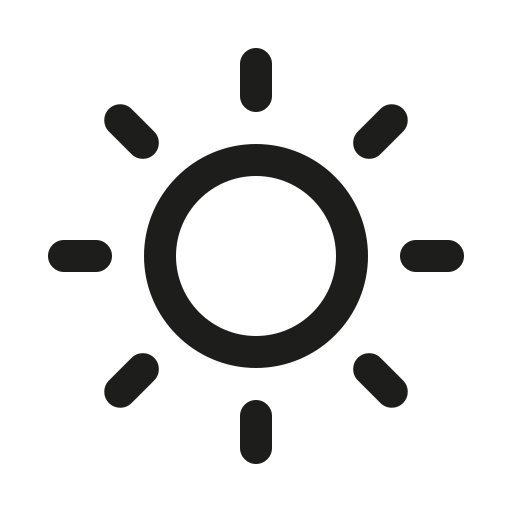
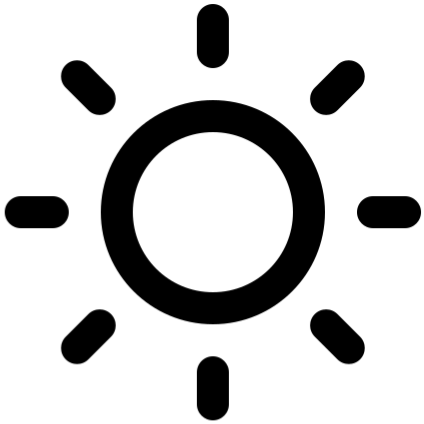
day night mode
added a dark mode that is toggled by a sun/moon icon

Changed region(s): [[0.0, 0.0, 1.0, 1.0]]

diff --git a/WebPortfolio/styles/style.css b/WebPortfolio/styles/style.css
@@ -1,8 +1,31 @@
-body, html{
+:root {
+    /* Default (Day) Mode */
+    --background-color: #fff;
+    --text-color: #000;
+    --grayscale: 100%;
+    --brightness: 0;
+    --link-color: #000;
+    --invert: 0;
+}
+  
+/* Night Mode */
+body.night-mode {
+    --background-color: #000;
+    --text-color: #fff;
+    --grayscale: 0%;
+    --brightness: 1;
+    --link-color: #fff;
+    --invert: 1;
+}
+
+body, html {
     height: 100%;
     width: 100%;
+    margin: 0;
     overflow: hidden;
     font-family: "Geist Mono", sans-serif;
+    background-color: var(--background-color);
+    color: var(--text-color);
 }
 
 .page-header {
@@ -13,17 +36,36 @@ body, html{
     font-size: 4em;
 }
 
+.top-buttons {
+    box-sizing: border-box;
+    position: fixed;
+    top: 0;
+    left: 0;
+    cursor: pointer;
+    padding: 20px;
+}
+
+.day-night-toggle {
+    box-sizing: border-box;
+    width: 3em;
+    padding-left: 10px;
+}
+
+.day-night-toggle:hover {
+    cursor: pointer;
+}
+
 .back {
+    box-sizing: border-box;
     float: left;
-    width: 50px;
-    filter: grayscale(100%);
-    filter: brightness(0.25);
-    padding-left: 20px;
-    padding-top: 20px;
+    width: 1.5em;
+    filter: grayscale(var(--grayscale));
+    filter: brightness(var(--brightness));
 }
 
 .back:hover {
     cursor: pointer;
+    background-color: var(--link-color);
 }
 
 .paragraph-section {
@@ -34,11 +76,10 @@ body, html{
 
 .contact-logo {
     height: 1.2em;
-    filter: grayscale(100%);
-    filter: brightness(0.25)
+    filter: brightness(var(--brightness)) invert(var(--invert));
 }
 
-.contact-link{
+.contact-link {
     font-size: 1.5em;
     text-align: center;
 }
@@ -49,11 +90,11 @@ body, html{
 
 a:link, a:visited, a:active{
     text-decoration: none;
-    color: black;
+    color: var(--link-color);
 }
   
 a:hover {
-    color: black;
+    color: var(--link-color);
     font-weight: bold;
 }
 

diff --git a/WebPortfolio/JS/app.js b/WebPortfolio/JS/app.js
@@ -1,14 +1,25 @@
-/*store menu open state for session*/
-let menuCenter = document.querySelector('#menu-center')
-menuCenter.addEventListener('click', () => {
-  menu.classList.toggle('open');
-  const isOpen = menu.classList.contains('open');
-  sessionStorage.setItem('menuState', isOpen ? 'open' : 'closed');
-});
+/*day night toggle*/
+const dayNightImage = document.querySelector('.day-night-toggle');
+dayNightImage.onclick = function(){
+  let isDay = true;
+  if (dayNightImage.src.endsWith('sun.png')) {
+    isDay = false;
+    dayNightImage.src = '../images/moon.png';
+    document.body.classList.add('night-mode');
+  } else {
+    isDay = true;
+    dayNightImage.src = '../images/sun.png';
+    document.body.classList.remove('night-mode');
+  }
 
-if (sessionStorage.getItem('menuState') === 'open') {
-  menu.classList.add('open');
-  setTimeout(function() {
-    menu.classList.toggle('active')
-  }, 100);
+  localStorage .setItem('nightMode', isDay ? 'day' : 'night');
+};
+
+if (localStorage.getItem('nightMode') === 'night') {
+  document.body.classList.add('night-mode');
+  dayNightImage.src = '../images/moon.png'; 
+}
+else {
+  document.body.classList.remove('night-mode'); 
+  dayNightImage.src = '../images/sun.png';
 }

diff --git a/WebPortfolio/pages/about.html b/WebPortfolio/pages/about.html
@@ -5,13 +5,18 @@
         <link href="../styles/style.css" rel="stylesheet" />
         <link href="../styles/scrollStyles.css" rel="stylesheet" />
         <script defer src="../JS/fades.js"></script>
+        <script defer src="../JS/app.js"></script>
     </head>
     <body>
-        <a href="main.html"> <img class="back" src="../images/back.png" alt="back-button"> </a>
-        <div>
-            
-            <h1 class="page-header">ABOUT</h1>
+        <div class="top-buttons">
+            <a href="main.html">
+                <img class="back" src="../images/back.png" alt="back-button">
+            </a>
+            <img class="day-night-toggle" src="../images/sun.png" alt="sun">
+        </div>
+        <h1 class="page-header">ABOUT</h1>
 
+        <div>
             <section class="about-section">
                 <h2>another header</h2>
                 <p class="paragraph-section"> Experienced Software Developer with a passion for expanding my technical knowledge and making a

diff --git a/WebPortfolio/pages/contact.html b/WebPortfolio/pages/contact.html
@@ -3,14 +3,18 @@
     <head>
         <title>Daisy's Portfolio</title>
         <link href="../styles/style.css" rel="stylesheet" />
+        <script defer src="../JS/app.js"></script>
     </head>
     <body>
-        <a href="main.html">
-            <img class="back" src="../images/back.png" alt="back-button">
-        </a>
-        
+        <div class="top-buttons">
+            <a href="main.html">
+                <img class="back" src="../images/back.png" alt="back-button">
+            </a>
+            <img class="day-night-toggle" src="../images/sun.png" alt="sun">
+        </div>
+        <h1 class="page-header">CONTACT</h1>
+       
         <div>
-            <h1 class="page-header">CONTACT</h1>
             <div class="paragraph-section">
                 <div class="contact-info">
                     <a class="contact-link" href="mailto:daisy.rendell.prvt@gmail.com" target="_blank">

diff --git a/WebPortfolio/pages/work.html b/WebPortfolio/pages/work.html
@@ -3,12 +3,17 @@
     <head>
         <title>Daisy's Portfolio</title>
         <link href="../styles/style.css" rel="stylesheet" />
+        <script defer src="../JS/app.js"></script>
     </head>
     <body>
-        <a href="main.html">
-            <img class="back" src="../images/back.png" alt="back-button">
-        </a>
-        <header class="page-header">WORK</header>
+        <div class="top-buttons">
+            <a href="main.html">
+                <img class="back" src="../images/back.png" alt="back-button">
+            </a>
+            <img class="day-night-toggle" src="../images/sun.png" alt="sun">
+        </div>
+        <h1 class="page-header">WORK</h1>
+        
         <div> 
             <div id="experience">
                 <h1>EXPERIENCE</h1>

diff --git a/WebPortfolio/styles/menuStyles.css b/WebPortfolio/styles/menuStyles.css
@@ -1,5 +1,3 @@
-/*main menu tweens*/
-
 header {
     margin: 0;
     padding: 0;
@@ -8,6 +6,14 @@ header {
     display: flex;
 }
 
+#day-night{
+    position: fixed;
+    top: 0;
+    left: 0;
+    padding: 1%;
+}
+
+/*main menu tweens*/
 .petal {
     background-color: white; 
     border: 2px solid black;
@@ -22,6 +28,7 @@ header {
     text-align: center;
     font-size: 1.5em;
     padding-top: 100%;
+    color: black;
 }
 
 .caption-flip{
@@ -29,6 +36,7 @@ header {
     font-size: 1.5em;
     padding-bottom: 100%;
     transform: rotate(180deg);
+    color: black;
 }
 
 #menu li{
@@ -72,6 +80,7 @@ header {
     cursor: pointer;
     background-color: rgb(255, 255, 255);
     font-size: 5em;
+    color: black;
 }
 
 #menu.active #menu-center {

diff --git a/WebPortfolio/pages/skills.html b/WebPortfolio/pages/skills.html
@@ -4,10 +4,16 @@
         <title>Daisy's Portfolio</title>
         <link href="../styles/style.css" rel="stylesheet" />
         <link href="../styles/SkillStyles.css" rel="stylesheet" />
+        <script defer src="../JS/app.js"></script>
         <script defer src="../JS/skill.js"></script>
     </head>
     <body>
-        <a href="main.html"> <img class="back" src="../images/back.png" alt="back-button"> </a>
+        <div class="top-buttons">
+            <a href="main.html">
+                <img class="back" src="../images/back.png" alt="back-button">
+            </a>
+            <img class="day-night-toggle" src="../images/sun.png" alt="sun">
+        </div>
         <h1 class="page-header">SKILLS</h1>
 
         <div>

diff --git a/WebPortfolio/pages/projects.html b/WebPortfolio/pages/projects.html
@@ -3,10 +3,17 @@
     <head>
         <title>Daisy's Portfolio</title>
         <link href="../styles/style.css" rel="stylesheet" />
+        <script defer src="../JS/app.js"></script>
     </head>
     <body>
-        <a href="main.html"> <img class="back" src="../images/back.png" alt="back-button"> </a>
+        <div class="top-buttons">
+            <a href="main.html">
+                <img class="back" src="../images/back.png" alt="back-button">
+            </a>
+            <img class="day-night-toggle" src="../images/sun.png" alt="sun">
+        </div>
         <h1 class="page-header">PROJECTS</h1>
+        
         <div>
             <h1 class="page-header">. . .</h1>
         </div>

diff --git a/WebPortfolio/JS/menu.js b/WebPortfolio/JS/menu.js
@@ -1,5 +1,20 @@
-/* menu anims*/
+/*store menu open state for session*/
+let menuCenter = document.querySelector('#menu-center')
 let menu = document.querySelector('#menu')
+  menuCenter.addEventListener('click', () => {
+  menu.classList.toggle('open');
+  const isOpen = menu.classList.contains('open');
+  sessionStorage.setItem('menuState', isOpen ? 'open' : 'closed');
+});
+
+if (sessionStorage.getItem('menuState') === 'open') {
+  menu.classList.add('open');
+  setTimeout(function() {
+    menu.classList.toggle('active')
+  }, 100);
+}
+
+/* menu anims*/
 menuCenter.onclick = function(){
     menu.classList.toggle('active')
 }

diff --git a/WebPortfolio/pages/main.html b/WebPortfolio/pages/main.html
@@ -13,6 +13,10 @@
     <body>
         <header>DAISY</header>
     
+        <div id="day-night">
+            <img class="day-night-toggle" src="../images/sun.png" alt="sun">
+        </div>
+
         <div id="menu-body">
             <ul id="menu">
                 <div id="menu-center">
@@ -49,10 +53,6 @@
                 </li>
 
             </ul>
-        </div>
-
-        <div id="day-night">
-            
         </div>
     </body>
 </html>
